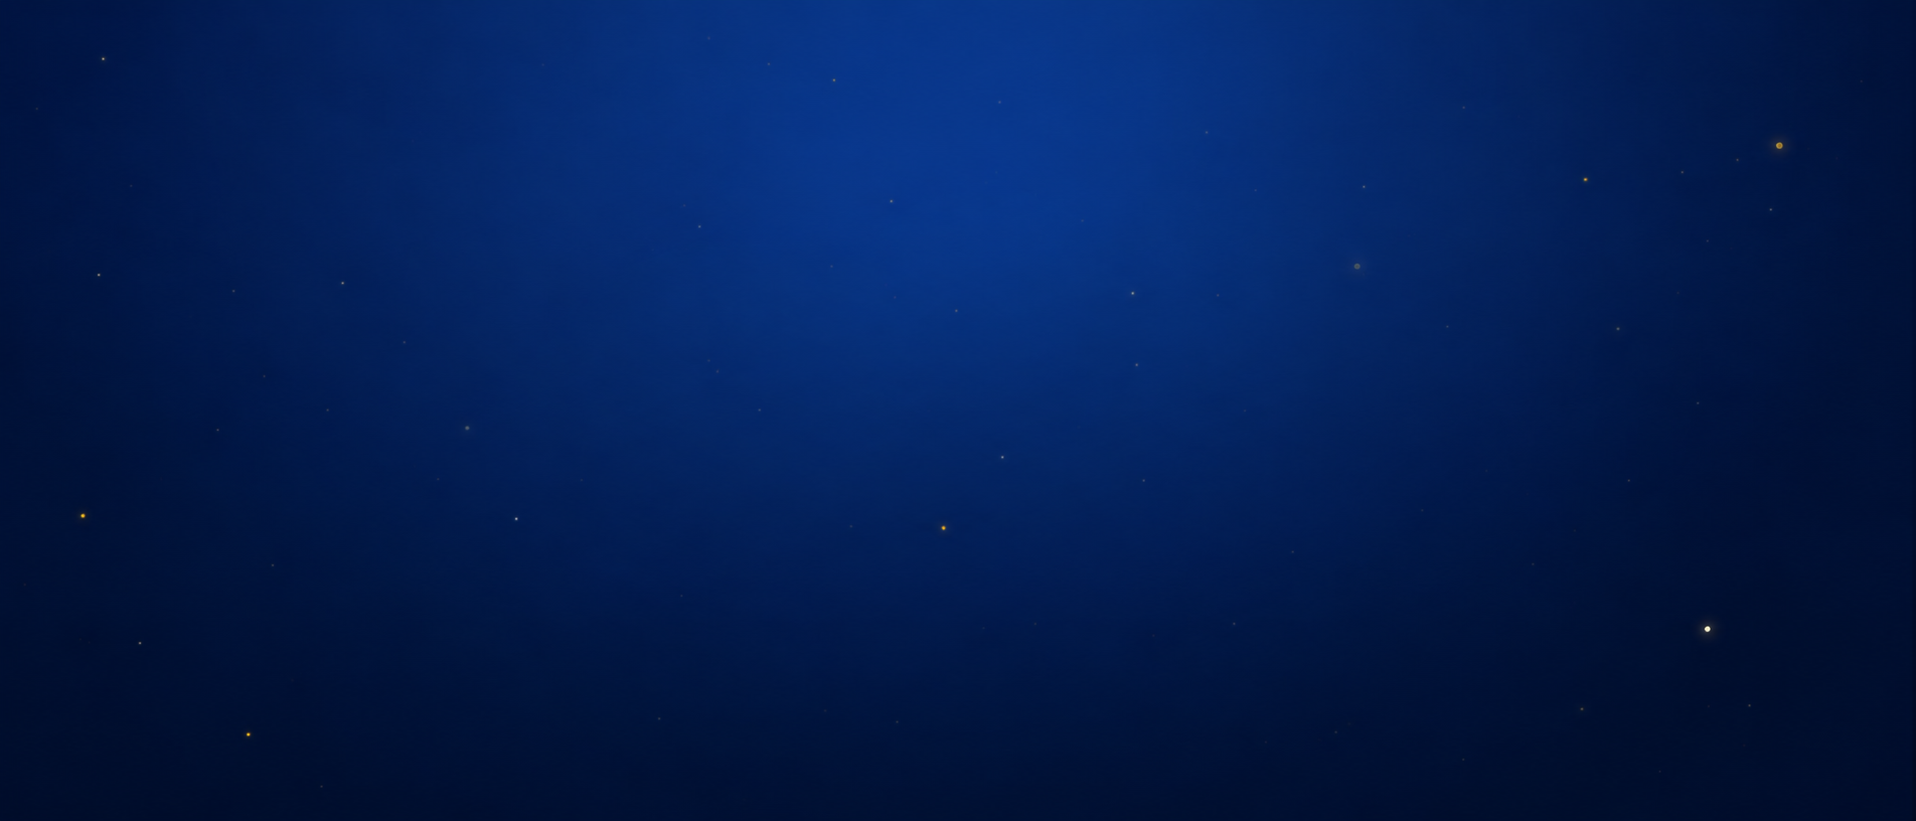
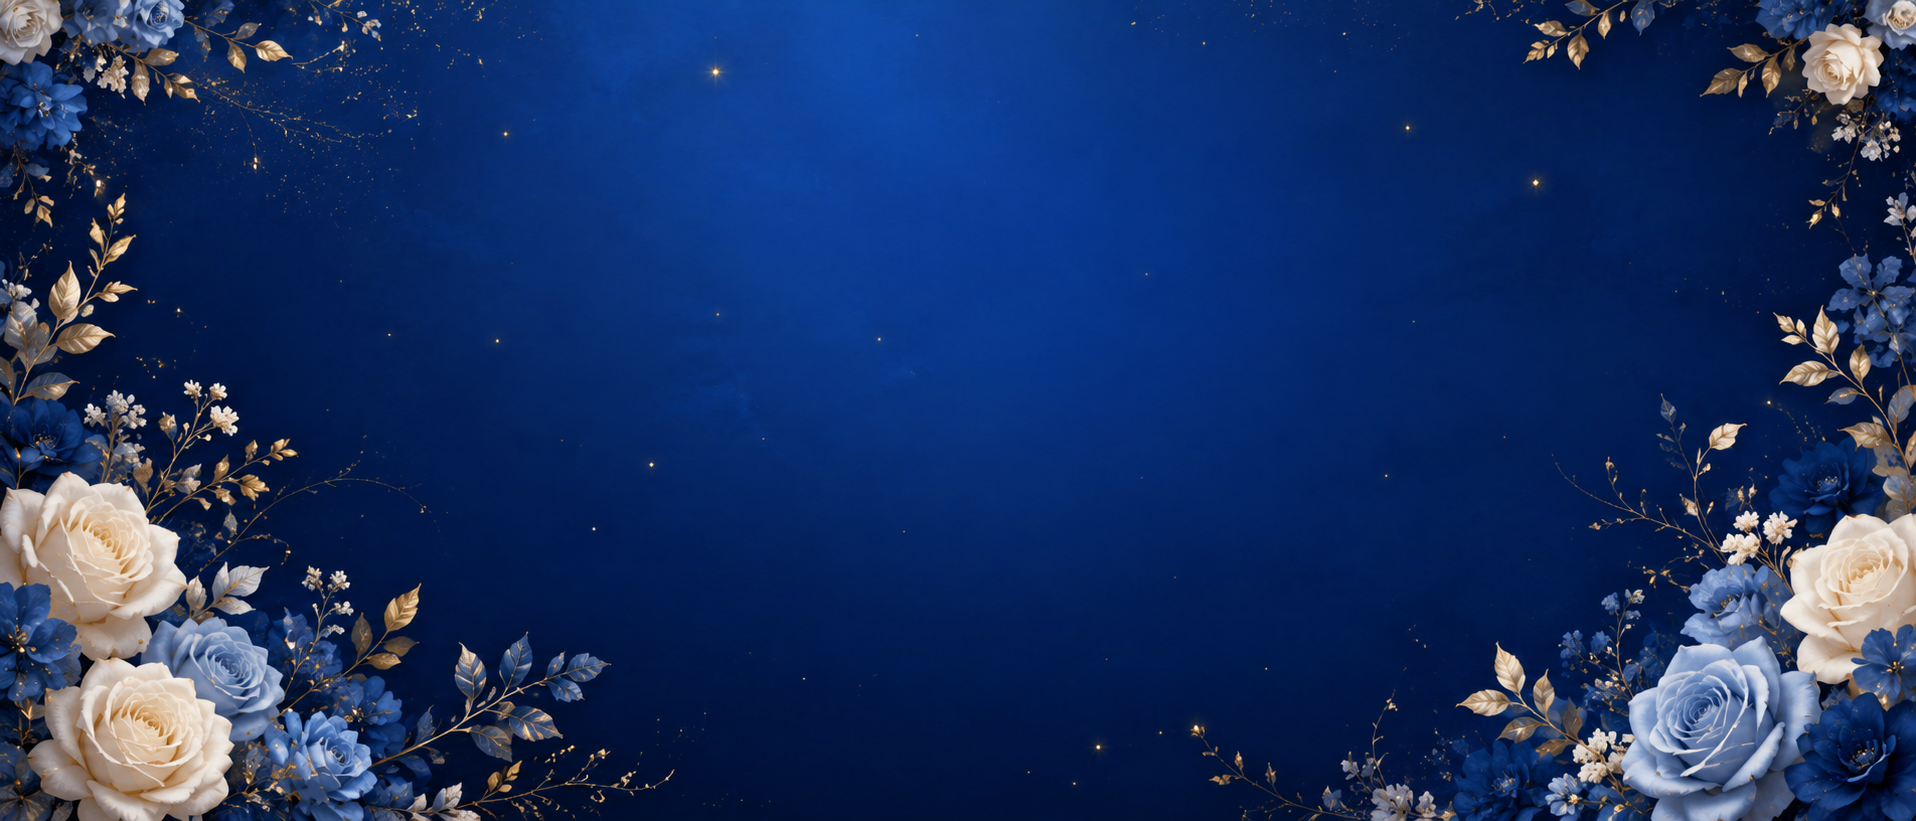
UP1-All

diff --git a/index.html b/index.html
@@ -436,7 +436,109 @@ section{position:relative}
 ================================================================= */
 .panel{background:linear-gradient(180deg,var(--paper),#eef3fb);color:var(--ink);padding:96px 0}
 .panel.alt{background:linear-gradient(180deg,#eef3fb,var(--paper))}
+/* =================================================================
+   BDP2 — background สำหรับ Dress Code / Gallery / Contact
+================================================================= */
+#dress,
+#gallery,
+#contact{
+  position:relative;
+  background:
+    linear-gradient(180deg, rgba(255,255,255,.55) 0%, rgba(255,255,255,.35) 50%, rgba(255,255,255,.55) 100%),
+    url("wedding_assets/BDP2.png") center center / cover no-repeat;
+  background-attachment:scroll;
+}
+
+/* ทำให้รูปดูนิ่งเป็นชั้น ๆ บน desktop (parallax effect) */
+@media (min-width: 1024px){
+  #dress,
+  #gallery,
+  #contact{
+    background-attachment:fixed;
+  }
+}
+
+/* faint shimmer particles ทับเล็กน้อยให้ดู luxury */
+#dress::before,
+#gallery::before,
+#contact::before{
+  content:"";position:absolute;inset:0;pointer-events:none;
+  background:
+    radial-gradient(circle at 15% 25%, rgba(212,175,55,.08), transparent 35%),
+    radial-gradient(circle at 85% 75%, rgba(212,175,55,.06), transparent 35%);
+  z-index:0;
+}
+
+/* ให้ content ลอยเหนือ overlay */
+#dress > *,
+#gallery > *,
+#contact > *{
+  position:relative;z-index:1;
+}
+
+/* เพิ่ม contrast ให้หัวข้อ section อ่านง่ายบนพื้นฟ้าอ่อน */
+#dress .sec-head .eyebrow,
+#gallery .sec-head .eyebrow,
+#contact .sec-head .eyebrow{
+  color:var(--navy);
+  text-shadow:0 1px 2px rgba(255,255,255,.6);
+}
+#dress .sec-head .thai-sub,
+#gallery .sec-head .thai-sub,
+#contact .sec-head .thai-sub{
+  color:#3a4d70;
+  text-shadow:0 1px 2px rgba(255,255,255,.5);
+}
 .dark{background:radial-gradient(120% 120% at 50% 0%,var(--navy) 0%,var(--navy-deep) 80%);color:var(--ivory);padding:96px 0}
+/* =================================================================
+   BDP1 — background สำหรับ Family / Countdown / Location
+================================================================= */
+#family,
+#count,
+#location{
+  position:relative;
+  background:
+    linear-gradient(180deg, rgba(8,26,61,.55) 0%, rgba(8,26,61,.40) 50%, rgba(8,26,61,.55) 100%),
+    url("wedding_assets/BDP1.png") center center / cover no-repeat,
+    var(--navy-deep);
+  background-attachment:scroll;
+}
+
+/* parallax effect บน desktop เท่านั้น (มือถือไม่รองรับ fixed ดี) */
+@media (min-width: 1024px){
+  #family,
+  #count,
+  #location{
+    background-attachment:fixed;
+  }
+}
+
+/* gold particles ลอยบาง ๆ เพิ่ม luxury */
+#family::before,
+#count::before,
+#location::before{
+  content:"";position:absolute;inset:0;pointer-events:none;
+  background:
+    radial-gradient(circle at 20% 20%, rgba(212,175,55,.10), transparent 40%),
+    radial-gradient(circle at 80% 80%, rgba(212,175,55,.08), transparent 40%);
+  z-index:0;
+}
+
+/* ให้ content อยู่เหนือ overlay */
+#family > *,
+#count > *,
+#location > *{
+  position:relative;z-index:1;
+}
+
+/* เพิ่ม contrast ให้การ์ดในใน sections อ่านง่ายขึ้น */
+#family .ticket,
+#family .card,
+#family > .wrap > div,
+#count .wrap,
+#location .wrap{
+  position:relative;z-index:1;
+}
 .sec-head{text-align:center;margin-bottom:54px}
 .sec-head h2{font-family:var(--f-display);font-weight:600;font-size:clamp(2.2rem,7vw,3.6rem);line-height:1.04;color:var(--navy)}
 .dark .sec-head h2{color:var(--white)}